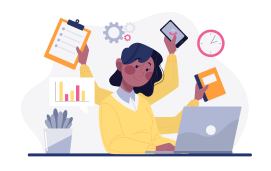
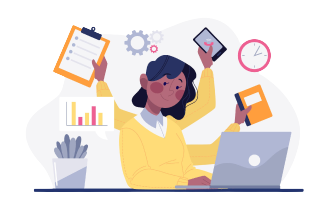
Ajuste na imagem e nos campos de senha no register

diff --git a/lib/app/modules/authentication/presenter/register_page.dart b/lib/app/modules/authentication/presenter/register_page.dart
@@ -10,9 +10,15 @@ class RegisterPage extends StatefulWidget {
 }
 
 class _RegisterPageState extends State<RegisterPage> {
+  bool _obscureText = true;
+  bool _obscureTextConfirm = true;
+  
   final _emailController = TextEditingController();
   final _passwordController = TextEditingController();
   final _confirmPasswordController = TextEditingController();
+  
+  bool _validatePassword = false;
+   bool _validateConfirmPassword = false;
 
   @override
   Widget build(BuildContext context) {
@@ -115,10 +121,13 @@ class _RegisterPageState extends State<RegisterPage> {
                       Padding(padding: EdgeInsets.only(bottom: 10)),
                       TextFormField(
                         controller: _passwordController,
+                        obscureText: _obscureText,
                         autofocus: true,
-                        obscureText: true,
                         decoration: InputDecoration(
                             labelText: "Senha",
+                            errorText: _validatePassword
+                              ? 'Campo de senha vazio!'
+                              : null,
                             labelStyle: TextStyle(
                               color: Colors.black54,
                               fontFamily: 'Poppins',
@@ -135,11 +144,15 @@ class _RegisterPageState extends State<RegisterPage> {
                                 )),
                             suffixIcon: GestureDetector(
                               onTap: () {
-                                print("Visibilidade da senha alterada!");
+                                setState(() {
+                                  _obscureText = !_obscureText;
+                                });
                               },
                               child: Icon(
-                                Icons.visibility,
-                                color: Color(0xFFFDA951),
+                               _obscureText
+                                  ? Icons.visibility
+                                  : Icons.visibility_off,
+                              color: Color(0xFFFDA951),
                               ),
                             )),
                       ),
@@ -147,9 +160,12 @@ class _RegisterPageState extends State<RegisterPage> {
                       TextFormField(
                         controller: _confirmPasswordController,
                         autofocus: true,
-                        obscureText: true,
+                        obscureText: _obscureTextConfirm,
                         decoration: InputDecoration(
                             labelText: "Confirmar senha",
+                             errorText: _validateConfirmPassword
+                              ? 'Campo de senha vazio!'
+                              : null,
                             labelStyle: TextStyle(
                               color: Colors.black54,
                               fontFamily: 'Poppins',
@@ -166,10 +182,14 @@ class _RegisterPageState extends State<RegisterPage> {
                                 )),
                             suffixIcon: GestureDetector(
                               onTap: () {
-                                print("Visibilidade da senha alterada!");
+                                 setState(() {
+                                  _obscureTextConfirm = !_obscureTextConfirm;
+                                });
                               },
                               child: Icon(
-                                Icons.visibility,
+                                 _obscureTextConfirm
+                                  ? Icons.visibility
+                                  : Icons.visibility_off,
                                 color: Color(0xFFFDA951),
                               ),
                             )),
